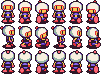
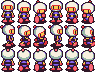
implemented sprite animations in all four directions

diff --git a/core/src/com/mygdx/tanks/AbstractPlayer.java b/core/src/com/mygdx/tanks/AbstractPlayer.java
@@ -8,56 +8,76 @@ import com.badlogic.gdx.graphics.g2d.Sprite;
 import com.badlogic.gdx.graphics.g2d.TextureRegion;
 
 public abstract class AbstractPlayer extends Sprite{
-    Animation<TextureRegion> anim;
-    TextureRegion[] upAnimationFrames;
-    TextureRegion[] leftRightAnimationFrames;
-    TextureRegion[] downAnimationFrames;
+    Animation<TextureRegion> activeAnimation;
     float elapsedtime;
+
+    Animation<TextureRegion> upAnim;
+    Animation<TextureRegion> rightAnim;
+    Animation<TextureRegion> leftAnim;
+    Animation<TextureRegion> downAnim;
 
     //Animation animation;
     public AbstractPlayer(Sprite sprite){
         super(sprite);
-        anim = exstractMovementAnimations(sprite.getTexture());
+        downAnim = createAnimation(sprite.getTexture(), 0, false);
+        rightAnim = createAnimation(sprite.getTexture(), 1, false);
+        leftAnim = createAnimation(sprite.getTexture(), 1, true);
+        upAnim = createAnimation(sprite.getTexture(), 2, false);
 
+        activeAnimation = createAnimation(sprite.getTexture(),2, false);
     }
     @Override
     public void draw(Batch batch) {
         elapsedtime += Gdx.graphics.getDeltaTime();
         update(Gdx.graphics.getDeltaTime());
-        batch.draw(anim.getKeyFrame(elapsedtime, true), getX(), getY());
+        batch.draw(activeAnimation.getKeyFrame(elapsedtime, true), getX(), getY());
     }
     private void update(float delta){
         //collision handling
         move();
     }
-    protected void move(){
+    protected void move(){    
         //left for implimentation of each player, for each own controller input
     }
 
-    private Animation<TextureRegion> exstractMovementAnimations(Texture animationSheet){
-        //https://www.youtube.com/watch?v=SVyYvi0I6Bc&ab_channel=Gamefromscratch
-        TextureRegion[][] tmpFrames = TextureRegion.split(animationSheet, 16, 24);
-        //TODO create an animationhandler
-        upAnimationFrames = new TextureRegion[tmpFrames.length];
-        leftRightAnimationFrames = new TextureRegion[tmpFrames.length];
-        downAnimationFrames = new TextureRegion[tmpFrames.length];
-        int index = 0;
-        for (int i = 0; i < tmpFrames.length; i++) {
-            for (int j = 0; j < tmpFrames.length; j++) {
-                if (index < 5) {
-                    upAnimationFrames[j] = tmpFrames[j][i];
-                } else if(index < 11){
-                    leftRightAnimationFrames[j] = tmpFrames[j][i];
-                } else if(index < 17){
-                    downAnimationFrames[j] = tmpFrames[j][i];
-                }
+    /**
+     * takes a raw animation sheet and exstract (row) indexed animation
+     * @param rawAnimationSheet raw texture of animations
+     * @param row of animation in rawAnimationSheet
+     * @return an Animation
+     */
+    private Animation<TextureRegion> createAnimation(Texture rawAnimationSheet, int row, boolean inverted){
+        TextureRegion[][] textureRegion2DArray = TextureRegion.split(rawAnimationSheet, 16, 24);
+        Animation<TextureRegion> anim = new Animation<TextureRegion>(1f/textureRegion2DArray[row].length, exstractAnimationFrames(textureRegion2DArray, row));
+        // Flip the frames horizontally for left/right animation
+        if (row == 1 && inverted) {
+            for (TextureRegion frame : textureRegion2DArray[row]) {
+                frame.flip(true, false);
             }
         }
-        anim = new Animation<TextureRegion>(1f/6f, upAnimationFrames);
         return anim;
     }
-    public void moveUp(){setY((getY() + 1));}
-    public void moveDown(){setY((getY() - 1));}
-    public void moveLeft(){setX((getX() - 1));}
-    public void moveRight(){setX((getX() + 1));}
+    private TextureRegion[] exstractAnimationFrames(TextureRegion[][] animationSheet,int row){
+        TextureRegion[] animationFrames = new TextureRegion[animationSheet[row].length];
+        for (int i = 0; i < animationSheet[row].length; i++) {
+            animationFrames[i] = animationSheet[row][i];
+        }
+        return animationFrames;
+    }
+    public void moveUp(){
+        setY((getY() + 1));
+        activeAnimation = upAnim;
+    }
+    public void moveDown(){
+        setY((getY() - 1));
+        activeAnimation = downAnim;
+    }
+    public void moveLeft(){
+        setX((getX() - 1));
+        activeAnimation = leftAnim;
+    }
+    public void moveRight(){
+        setX((getX() + 1));
+        activeAnimation = rightAnim;
+    }
 }

diff --git a/doc/SITREP.md b/doc/SITREP.md
@@ -1,14 +1,34 @@
 <h1>SITREPS</h1>
 <div>
-<h2>SITREP(03.04.2023)</h2>
+    <h2>SITREP(03.04.2023)</h2>
     <p>
-    Currently game is pretty simple, i used bomberman textures from this <a href="https://www.spriters-resource.com/fullview/7943/">website</a>. This because, another project i am working on at uni needs sprites for a bomberman game and i was really bad at drawing tank sprites. <br>
-    <b>TODO List:</b>
+    Currently game is pretty simple, i used bomberman textures from this <a href="https://www.spriters-resource.com/fullview/7943/">website</a>. This because, another project i am working on at uni needs sprites for a bomberman game and i was really bad at drawing tank sprites.
+    </p>
+    <h5>TODO List:</h5>
         <ul>
             <li>Implemnet proper sprites, currently sprites kinda not work</li>
             <li>Create simple tank sprites, or buy some</li>
             <li>Implement some sort of map</li>
             <li>Implement collison with map and players, this will probably lead to needed exstension of controller</li>
         </ul>
+</div>
+
+<div>
+    <h2>SITREP(04.04.2023)</h2>
+    <p>Implemented sprite animations in all four directions, player will now constantly animate. I still need idle animation tough :I. Should maybe use enums for animations
     </p>
+    <p>
+    Tought of different maps and collision detection options, options were : Box2D, Intersector collison, or tilemap attribute collision. I really want to use libgdx tilemaps for easier level creation but the collision system is so bad. I also want efficiency</p>
+    <h5>DONE List:</h5>
+        <ul>
+            <li>Implemented proper sprites, can now exstract sprite animations at given row, however only for 16 x 24 sized animation sheets</li>
+            <li>implement proper animation shifting</li>
+        </ul>
+    <h5>TODO List:</h5>
+        <ul>
+            <li>Create propper animation handler, very limited animation handler in player now</li>
+            <li>Create simple tank sprites, or buy some</li>
+            <li>Implement some sort of map</li>
+            <li>Implement collison with map and players, this will probably lead to needed exstension of controller</li>
+        </ul>
 </div>
